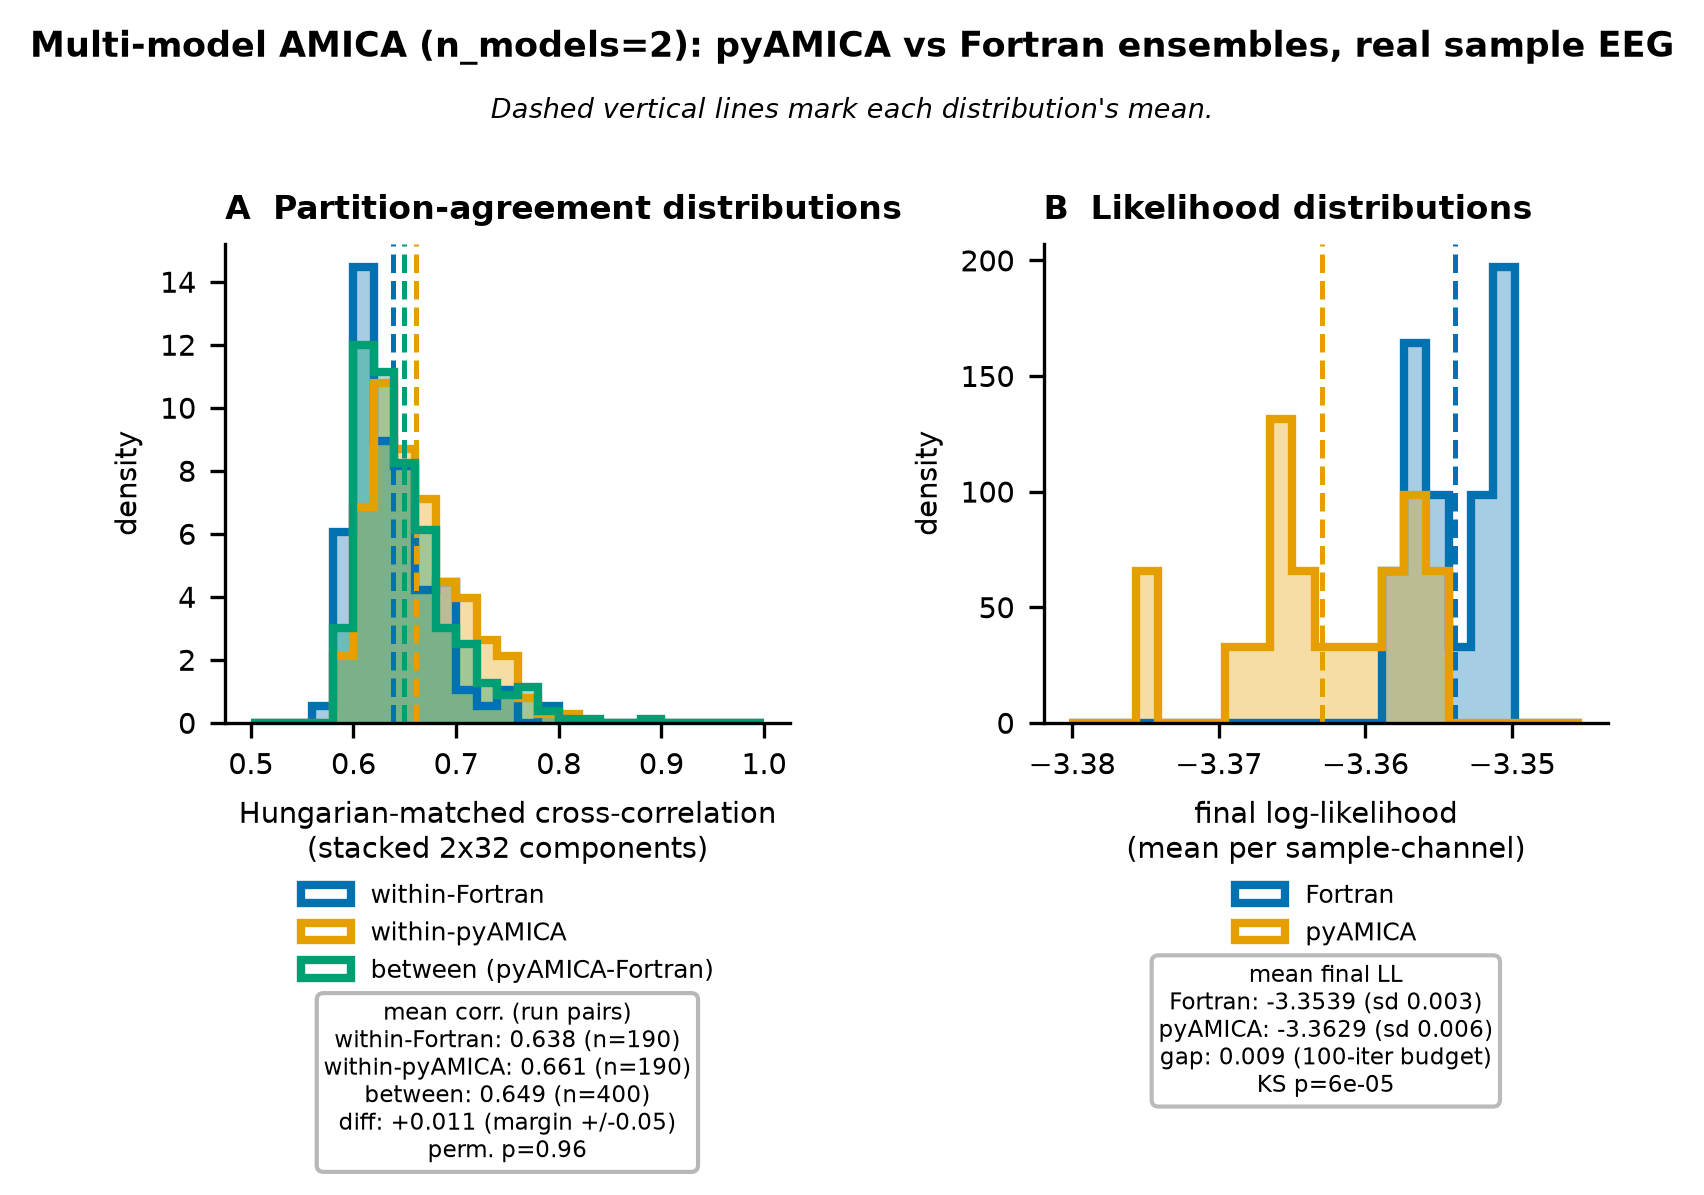
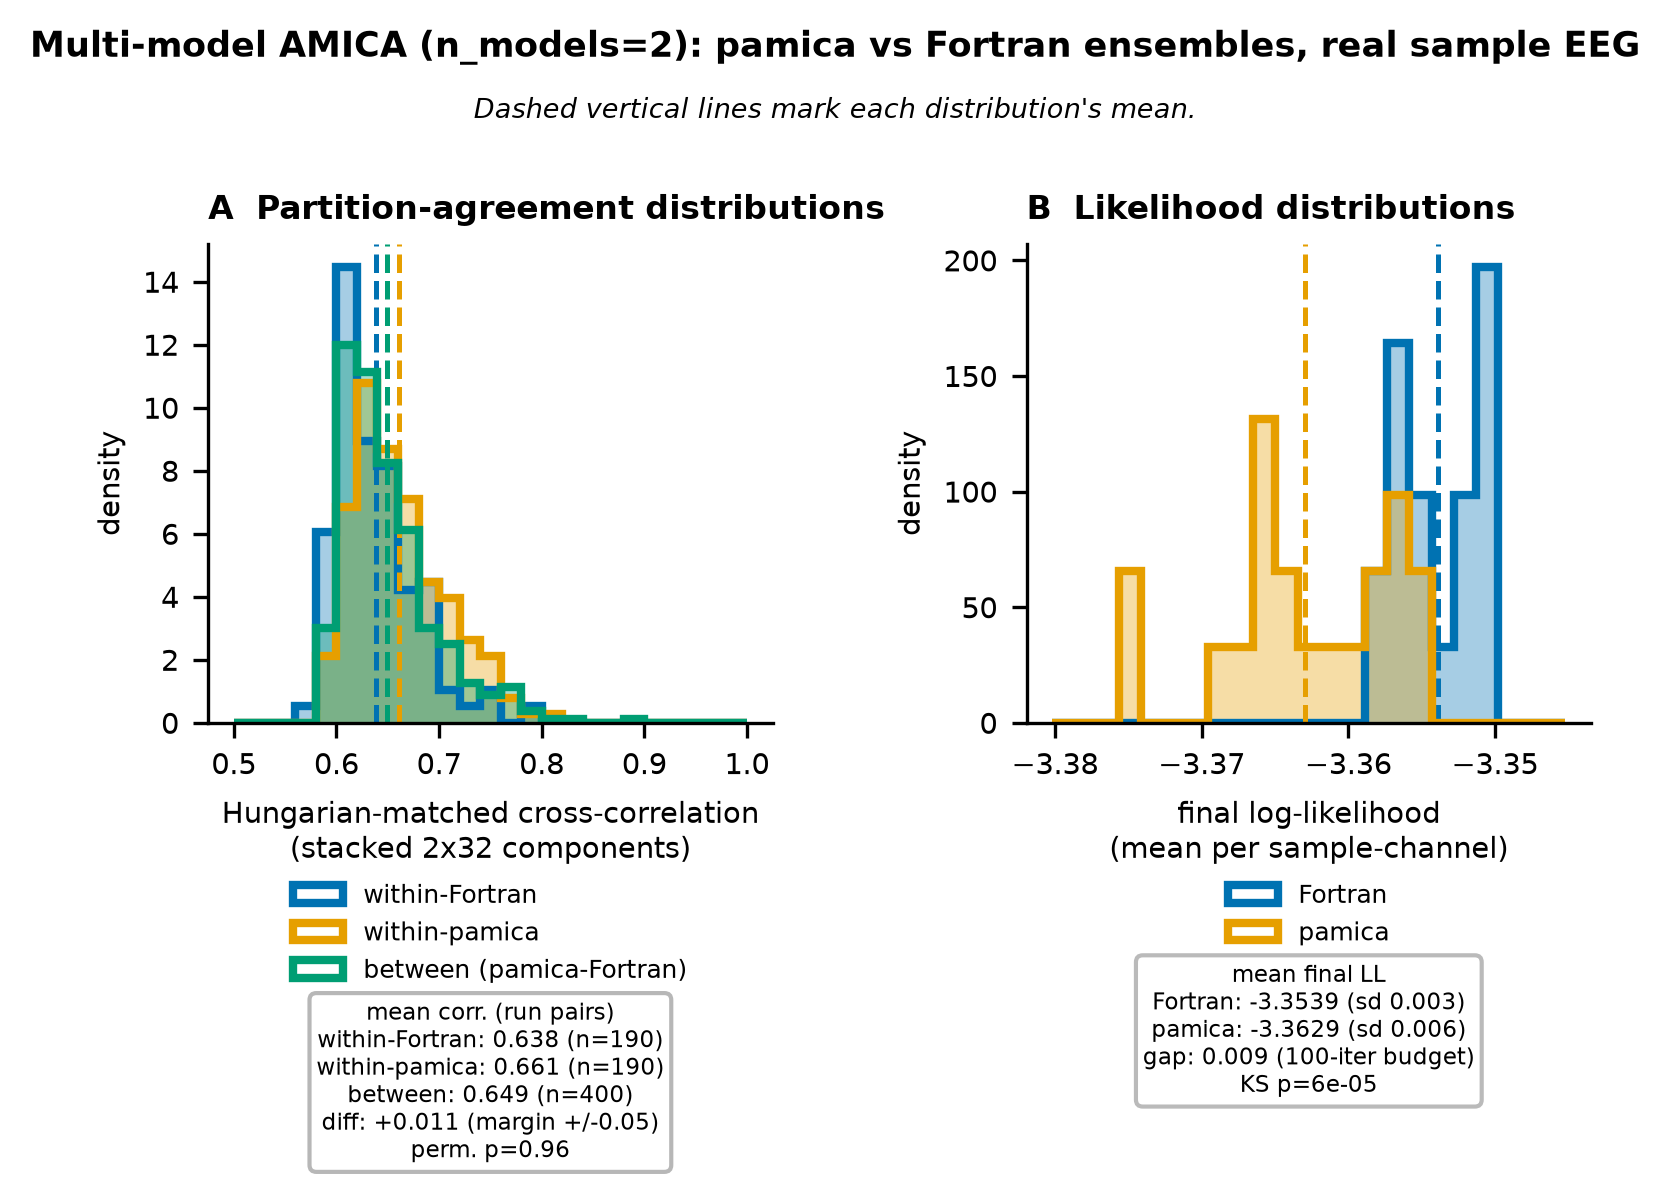
Copy-edit paper; regenerate figure, fix citation

diff --git a/paper.md b/paper.md
@@ -29,19 +29,19 @@ bibliography: paper.bib
 
 # Summary
 
-Independent Component Analysis (ICA) is a standard method for separating electroencephalography (EEG) and electromyography (EMG) recordings into maximally independent sources,
-which isolates brain, muscle, and artifact activity for downstream analysis. Adaptive Mixture ICA (AMICA) generalizes single-model ICA to a mixture of ICA models with adaptive source densities,
+Independent Component Analysis (ICA) is a standard method for separating electroencephalography (EEG) and electromyography (EMG) recordings into maximally independent sources
+that isolate brain, muscle, and artifact activity for downstream analysis. Adaptive Mixture ICA (AMICA) [@palmer2012amica] generalizes single-model ICA to a mixture of such models with adaptive source densities,
 and produces the most dipolar (and thus most physiologically interpretable) component decompositions of EEG among the widely used algorithms benchmarked by @delorme2012independent.
 Its reference implementation is a Fortran program parallelized with the Message Passing Interface (MPI) and distributed as a compiled binary driven from MATLAB/EEGLAB,
-which is difficult to install, runs only on the CPU, and is not usable from a Python scientific workflow.
+which is difficult to install, runs only on the central processing unit (CPU), and is not usable from a Python scientific workflow.
 
-`pamica` is a Python implementation of AMICA that reproduces the reference Fortran results within numerical tolerance while running on the CPU, NVIDIA GPUs (CUDA), and Apple GPUs (Apple's MLX array framework [@mlx2023]).
-It is a complete NumPy/PyTorch reimplementation, not a wrapper around the Fortran binary,
-built on PyTorch [@paszke2019pytorch], NumPy [@harris2020array],
-and SciPy [@virtanen2020scipy], and exposes a scikit-learn-style estimator under a BSD-3-Clause license.
-In double precision it reproduces the reference score-function algebra to machine precision;
+`pamica` is a Python implementation of AMICA that reproduces the reference Fortran results within numerical tolerance while running on the CPU, NVIDIA graphics processing units (GPUs, via CUDA), and Apple GPUs (Apple's MLX array framework [@mlx2023]).
+It is a complete reimplementation built on PyTorch [@paszke2019pytorch], NumPy [@harris2020array],
+and SciPy [@virtanen2020scipy], not a wrapper around the Fortran binary,
+and exposes a scikit-learn-style estimator under a BSD-3-Clause license.
+In double precision it reproduces the reference score-function algebra to floating-point round-off;
 it also runs in single precision (float32),
-which the CPU-only binary does not offer and which is required to use Apple GPUs, which have no float64 and host the fastest backend (MLX).
+unavailable in the CPU-only binary and required for Apple GPUs, which have no float64 and host the fastest backend (MLX).
 `pamica` writes output in the binary format that EEGLAB's AMICA loader reads:
 a single-model output file is byte-identical in layout to a native AMICA file,
 and multi-model output round-trips through the same loader. Correctness is defined as parity with the Fortran reference for the single-model case and, because multi-model AMICA is not partition-identifiable, as a similar distribution of solutions for the multi-model case;
@@ -50,30 +50,30 @@ The software is at <https://github.com/sccn/pAMICA> (archived at doi:10.5281/zen
 
 # Statement of need
 
-AMICA also supports equivalent-dipole source localization and automated component classification [@piontonachini2019iclabel].
-As neuroimaging analysis moves toward Python, for example MNE-Python [@gramfort2013meg], its MATLAB-only Fortran implementation is an increasing obstacle:
+AMICA's decompositions are well suited to equivalent-dipole source localization and automated component classification [@piontonachini2019iclabel].
+Yet its reference implementation is MATLAB-only Fortran, an increasing obstacle as neuroimaging analysis moves toward Python, for example MNE-Python [@gramfort2013meg]:
 an AMICA that runs natively in Python and on a GPU, and that is validated to reproduce the Fortran reference numerically, is needed for modern pipelines.
 
 General-purpose Python ICA implementations do not fill this gap. `scikit-learn` and `MNE-Python` provide FastICA [@hyvarinen2000independent] and Infomax [@bell1995information; @lee1999independent],
-and Picard [@ablin2018faster] provides a faster maximum-likelihood ICA,
-but none implement AMICA's mixture of models, adaptive generalized-Gaussian source densities, or Newton updates,
-and so they do not reproduce AMICA decompositions. `pamica` targets EEG/EMG analysts who want AMICA-quality decompositions inside a Python pipeline,
+while Picard [@ablin2018faster] offers faster-converging maximum-likelihood ICA;
+none implement AMICA's mixture of models, adaptive generalized-Gaussian source densities, or Newton updates,
+so they do not reproduce AMICA decompositions. `pamica` targets EEG/EMG analysts who want AMICA-quality decompositions inside a Python pipeline,
 users of GPU hardware who want faster runs than the CPU-only binary, and methodologists who need a transparent reference implementation to build on.
 
 # Implementation and validation
 
-`pamica` provides a natural-gradient [@amari1998natural] expectation-maximization backend that ports the full AMICA algorithm:
+`pamica` provides a natural-gradient [@amari1998natural] expectation-maximization (EM) backend that ports the full AMICA algorithm:
 exact-EM mixture updates, a positive-definite Newton step [@palmer2008newton],
 symmetric zero-phase-component-analysis (ZCA) sphering, the five source-density families of the reference (generalized Gaussian, Gaussian,
 logistic, sub-Gaussian, and the extended-Infomax kurtosis switcher), a mixture of ICA models, and component sharing across models.
 It also computes mutual information reduction (MIR) and pairwise mutual information (PMI), the separation-quality metrics used to benchmark ICA algorithms [@delorme2012independent].
 
 `pamica`'s conformity with the reference binary is measured with two complementary metrics: Hungarian-matched component correlation
-and the Amari distance [@amari1996new], a permutation- and scale-invariant unmixing-matrix metric that needs no assignment step.
+and the Amari distance [@amari1996new], a relabeling- and scale-invariant unmixing-matrix metric that needs no assignment step.
 Both implementations were run for AMICA's usual 2000 iterations with Newton off (`do_newton=0`) and otherwise-default parameters
 (settings transcribed between `pamica`'s JSON and Fortran's native text format).
 Newton is disabled here to isolate the algorithm from initialization: with Newton on, independently seeded runs can settle a few under-determined components in different, equally likely optima, though a matched initialization recovers agreement (documentation).
-The single-model headline (Table 1) uses an external recording (OpenNeuro ds002718, 70 channels, $k\approx153$ frames per squared channel count), well past the ~60 threshold where cross-backend agreement plateaus;
+The single-model headline (Table 1) uses an external recording (OpenNeuro ds002718, 70 channels) with a data-adequacy ratio $k\approx153$ ($k$ = frames divided by squared channel count), well past the ~60 threshold where cross-backend agreement plateaus;
 the bundled 32-channel sample below ($k\approx30$) gives a consistent Amari distance.
 Score functions and per-block sufficient statistics are exact to floating-point resolution against the literal Fortran expressions on the bundled sample.
 A mixture of ICA models is not partition-identifiable, so exact partition parity is the wrong bar for the multi-model case;
@@ -82,9 +82,9 @@ A permutation test finds no evidence that cross-implementation agreement is wors
 Multi-model log-likelihood distributions still differ slightly at a matched iteration budget
 (`pamica` needs about twice as many iterations to reach Fortran's mean), so full-likelihood similarity is not yet claimed.
 
-| Regime | Metric | Result (mean; correlation / Amari distance) |
+| Regime | Metric | Result (mean) |
 |---|---|---|
-| Single-model | Log-likelihood gap to Fortran (mean per-sample-channel LL, $-3.6993$, $k\approx153$) | within ~0.0005 |
+| Single-model | Log-likelihood gap to Fortran (mean per-sample-channel log-likelihood, $-3.6993$, $k\approx153$) | within ~0.0005 |
 | Single-model | Conformity with Fortran | 0.998 ($k\approx153$) / 0.006 (bundled, $k\approx30$) |
 | Single-model | Score functions (non-default families) and sufficient statistics | exact to floating-point resolution ($\sim\!10^{-15}$) |
 | Multi-model | Single-run magnitude (`pamica`-Fortran; Fortran-Fortran) | 0.65; 0.64 (sd 0.05) / 0.163; 0.174 (sd 0.02) |
@@ -92,7 +92,7 @@ Multi-model log-likelihood distributions still differ slightly at a matched iter
 
 : Single-model parity (external ds002718, $k\approx153$; Amari and score-function checks on the bundled sample) and
 multi-model distributional similarity (bundled sample) of `pamica` with the Fortran reference. All values are means
-(sd shown where relevant) over matched components (single-model) or within/cross-implementation pairs (190/400, multi-model).
+(sd = standard deviation, shown where relevant) over matched components (single-model) or within/cross-implementation pairs (190/400, multi-model).
 
 ![Multi-model solution-ensemble partition-correlation distributions (panel A) and log-likelihood distributions (panel B) for 20 `pamica` and 20 Fortran fits of the sample EEG; dashed lines mark each distribution's mean.
 The within-Fortran, within-`pamica`, and between-implementation correlation distributions overlap,
@@ -102,10 +102,10 @@ Panel B's apparent separation is a 0.009 log-likelihood gap on a ~0.035 axis.\la
 All backends converge to the same single-model log-likelihood on real EEG (maximum pairwise difference ~0.003).
 On Apple Silicon, MLX is the fastest backend and flat with channel count (Table 2); PyTorch-MPS is never a win.
 Double-precision CUDA is the reproducible NVIDIA path; native Fortran scales with CPU cores and, with enough cores pinned,
-can beat the GPU on a larger, hotter host, though it does not catch Apple's MLX on laptop hardware.
-A data-size sweep (documentation) shows cross-backend component agreement rising with frames per channel and plateauing near 0.98 once well-determined,
+can beat the GPU on a larger, hotter host, though it does not match Apple's MLX on laptop hardware.
+A data-size sweep (documentation) shows cross-backend component agreement rising with frames per channel and plateauing near 0.98 once the decomposition is well-determined,
 where two independent double-precision implementations agree at a mean of 0.995;
-single-precision runs agree with double precision to four to five significant digits, so double precision stays the default for parity.
+single-precision runs agree with float64 to four to five significant digits, so float64 stays the default for parity.
 
 | Backend (device) | Precision | ms / iteration |
 |---|---|---:|
@@ -132,17 +132,16 @@ and step-by-step reproduction commands are in the documentation (<https://eeglab
 # State of the field
 
 `pamica` complements rather than replaces EEGLAB [@delorme2004eeglab] and its Fortran AMICA plugin: it shares EEGLAB's output format,
-adds GPU support and a Python API, and can run the reference Fortran itself through a bundled dependency-free native build (no MKL or MPI runtime).
+adds a Python API with GPU support, and runs the reference Fortran itself through a bundled dependency-free native build (no Intel Math Kernel Library or MPI runtime).
 Two other Python AMICA reimplementations have appeared [@esmaeili2025amica; @herforth2026pyamica],
-both of which provide MNE-Python-compatible objects; `pamica` leads with a scikit-learn-style array API, byte-identical EEGLAB I/O, and an MLX backend for Apple GPUs, and also ships an MNE-Python wrapper (an optional extra).
-What distinguishes `pamica` is the rigor and scope of its Fortran-parity validation beyond what either alternative publishes (Table 1).
+both of which provide MNE-Python-compatible objects; `pamica` offers a scikit-learn-style array API, byte-identical EEGLAB I/O, an MLX backend for Apple GPUs, and an optional MNE-Python wrapper.
+What sets `pamica` apart is the depth of its Fortran-parity validation (Table 1): source-density score functions bit-exact to floating-point resolution against the literal Fortran expressions, and a distributional-similarity framework for the non-identifiable multi-model case.
 
 # Acknowledgements
 
-We thank Jason Palmer and Ken Kreutz-Delgado, co-developers of AMICA, for the reference implementation,
-and the EEGLAB community for the tools and sample data used to validate this work.
-Two of the authors are original developers of the methods `pamica` builds on: S.M. co-developed the AMICA algorithm (Palmer et al.,
-cited above) and A.D. is a lead developer of EEGLAB [@delorme2004eeglab].
+We thank Jason Palmer and Ken Kreutz-Delgado, co-developers of AMICA, for the reference implementation.
+We also thank the EEGLAB community for the tools and sample data used to validate this work.
+Two of the authors are original developers of the methods `pamica` builds on: S.M. co-developed the AMICA algorithm [@palmer2012amica] and A.D. is a lead developer of EEGLAB [@delorme2004eeglab].
 This work was supported by The Swartz Foundation (Old Field, NY) to the Swartz Center for Computational Neuroscience and by National Institutes of Health grant R01-NS047293 (to A.D. and S.M.).
 
 # References